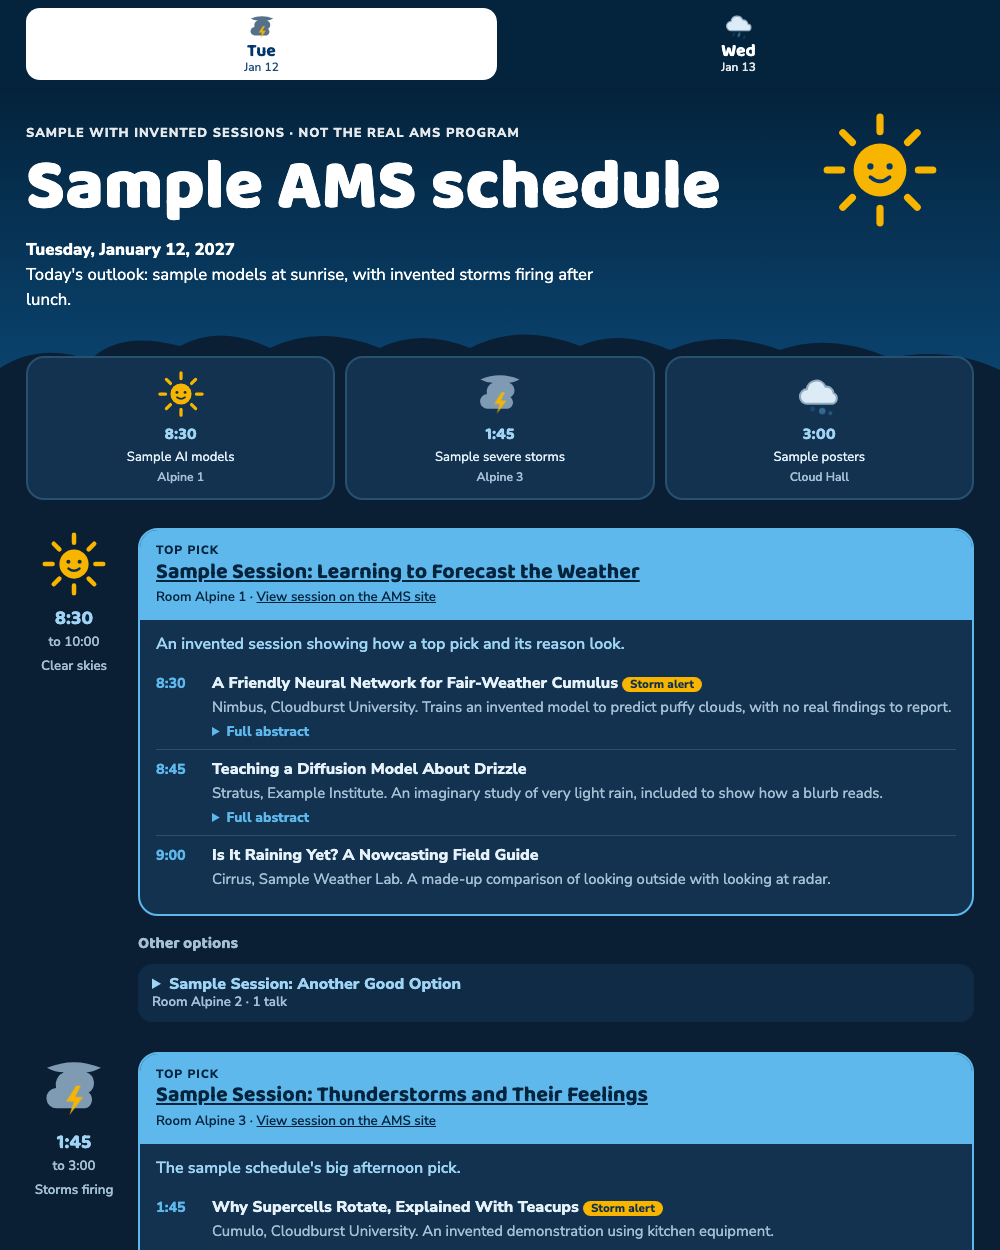
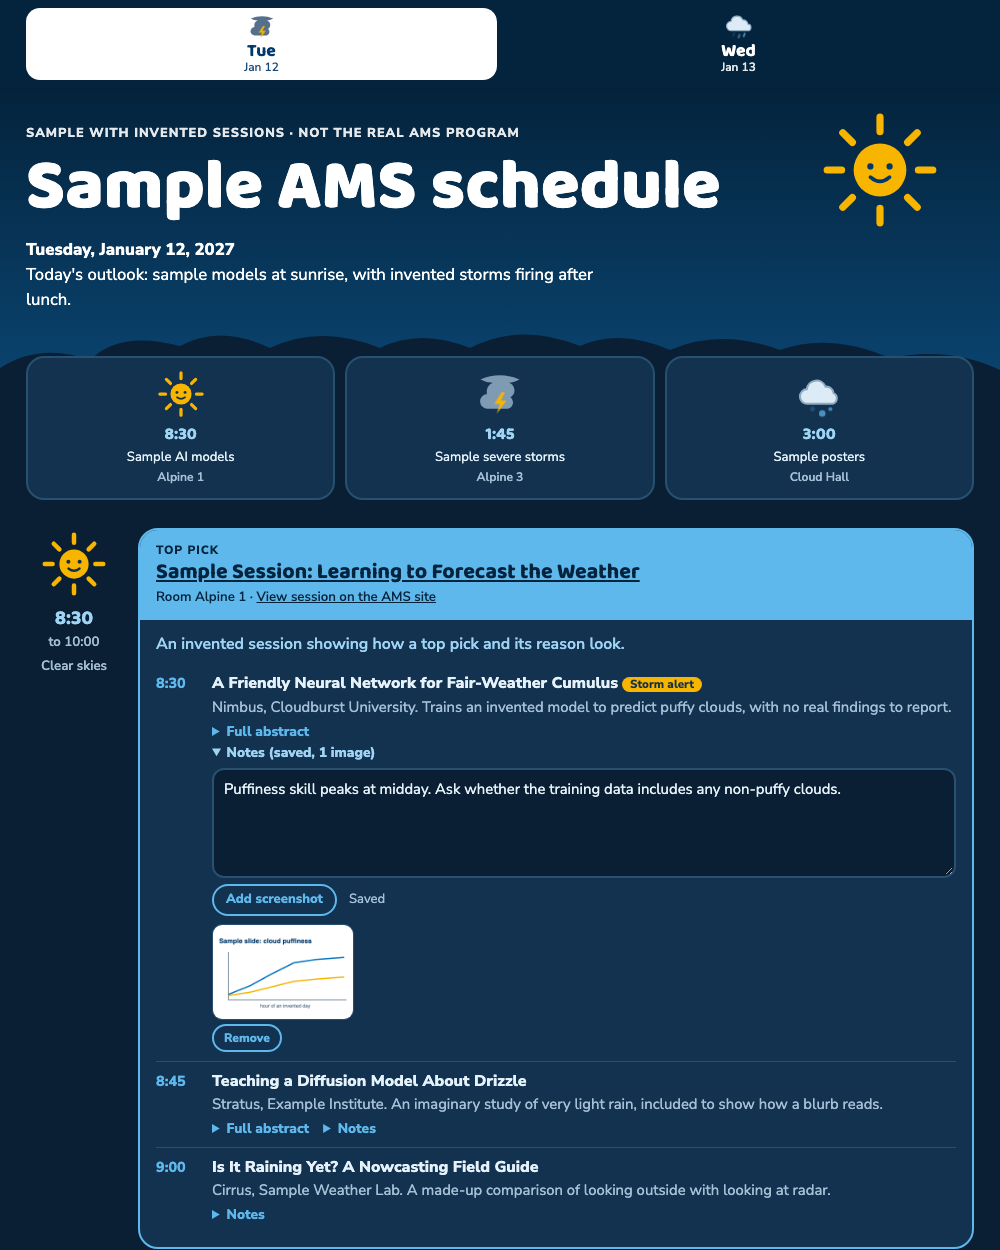
Show notes and a screenshot in the README preview

Changed region(s): [[0.124, 0.5928, 0.992, 1.0], [0.031, 0.8424, 0.093, 0.9672], [0.155, 0.5928, 0.186, 0.624]]

diff --git a/README.md b/README.md
@@ -2,7 +2,7 @@
 
 Have an AI agent build your personal schedule for the [AMS Annual Meeting](https://annual.ametsoc.org/) (Denver, January 10–14, 2027). It asks what you're interested in, reads the program, and makes a cute weather-themed page with day tabs, a top pick for each time slot, alternates, a summary and expandable full abstract for every talk, links to each session on the AMS site, relevant posters, and a place under each talk for your own notes and screenshots.
 
-![A sample schedule page with day tabs, weather icons and a top-pick session](docs/preview.png)
+![A sample schedule page with day tabs, weather icons, a top-pick session and an open note with a screenshot](docs/preview.png)
 
 The picture and `example/` use invented sessions. Your page will use the real program.
 
